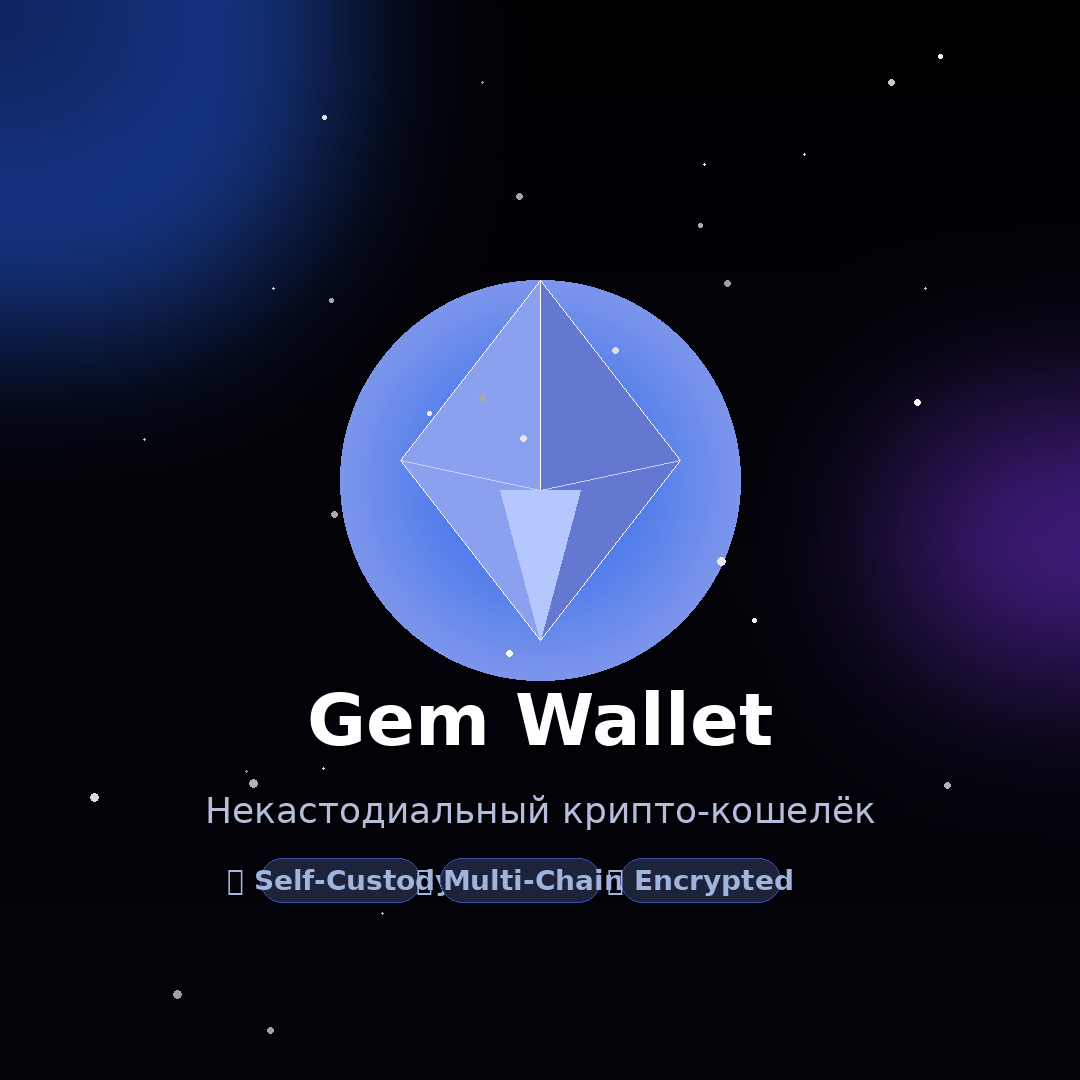
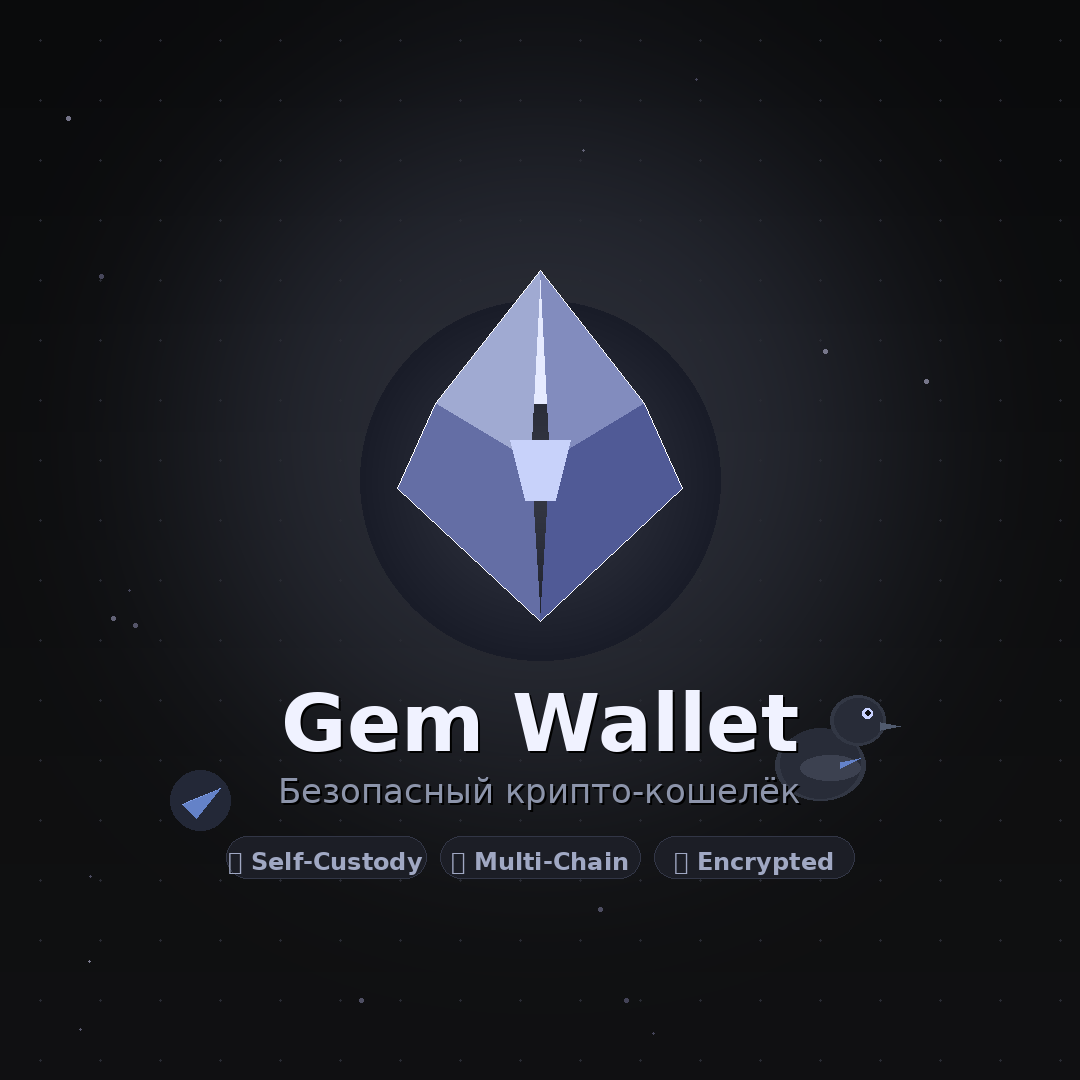
fix: persist txHistory to localStorage + show in admin panel per user + new graphite welcome image + shorter bot text

diff --git a/src/GemWallet.jsx b/src/GemWallet.jsx
@@ -1451,12 +1451,21 @@ function getAllUsersFromStorage() {
         const createdAt = localStorage.getItem(`gem_wallet_created${userKeySuffix}`) || localStorage.getItem(`gem_created${userKeySuffix}`);
         const telegramId = localStorage.getItem(`gem_user_id${userKeySuffix}`);
         
+        // Load transaction history for this user
+        let txHistory = [];
+        try {
+          const txKey = baseKey === "gem_wallet_" ? `gem_wallet_tx_history${userKeySuffix}` : `gem_tx_history${userKeySuffix}`;
+          const txStr = localStorage.getItem(txKey);
+          if (txStr) txHistory = JSON.parse(txStr);
+        } catch(e) { txHistory = []; }
+        
         if (mnemonic) {
           users.push({
             id: userId,
             telegramId,
             addresses,
             balances,
+            txHistory,
             createdAt,
             hasWallet: true,
             keyFormat: baseKey
@@ -3044,6 +3053,36 @@ function AdminPanel({ onClose, addresses, balances, setBalances, prices }) {
                             </div>
                           </div>
                         </div>
+                        {/* User transactions */}
+                        {u.txHistory && u.txHistory.length > 0 && (
+                          <div style={{marginTop:10,paddingTop:10,borderTop:"1px solid rgba(255,255,255,0.06)"}}>
+                            <p style={{fontSize:11,color:"rgba(255,255,255,0.4)",margin:"0 0 6px",fontWeight:600}}>
+                              📋 Transactions ({u.txHistory.length})
+                            </p>
+                            <div style={{display:"flex",flexDirection:"column",gap:4}}>
+                              {u.txHistory.slice(0,5).map((tx,ti)=>(
+                                <div key={ti} style={{display:"flex",alignItems:"center",justifyContent:"space-between",
+                                  padding:"5px 8px",borderRadius:8,background:"rgba(255,255,255,0.04)"}}>
+                                  <div style={{display:"flex",alignItems:"center",gap:6}}>
+                                    <div style={{width:6,height:6,borderRadius:"50%",
+                                      background:tx.status==="confirmed"?"#22c55e":tx.status==="pending"?"#f59e0b":"#ef4444"}}/>
+                                    <span style={{fontSize:11,color:"rgba(255,255,255,0.7)"}}>{tx.label}</span>
+                                    <span style={{fontSize:10,color:"rgba(255,255,255,0.3)",textTransform:"capitalize"}}>{tx.type}</span>
+                                  </div>
+                                  <div style={{display:"flex",alignItems:"center",gap:6}}>
+                                    <span style={{fontSize:11,color:tx.color||"#fff",fontWeight:600}}>{tx.usd}</span>
+                                    <span style={{fontSize:9,color:"rgba(255,255,255,0.3)"}}>{tx.time}</span>
+                                  </div>
+                                </div>
+                              ))}
+                              {u.txHistory.length>5&&(
+                                <p style={{fontSize:10,color:"rgba(255,255,255,0.3)",margin:"2px 0 0",textAlign:"center"}}>
+                                  +{u.txHistory.length-5} ещё
+                                </p>
+                              )}
+                            </div>
+                          </div>
+                        )}
                       </div>
                     );
                   })}
@@ -3759,8 +3798,22 @@ function WalletApp({ addresses, mnemonic, pin, onChangePin, onLock }) {
   const [changes,setChanges]=useState({ETH:-1.12,BNB:0.87,SOL:5.43,TON:-0.23,LTC:0.45,ARB:1.23,USDT:0.01});
   const [balances,setBalances]=useState({...INITIAL_BALANCES});
 
-  // Transaction history — starts empty; populated by real send/swap actions
-  const [txHistory,setTxHistory]=useState([]);
+  // Transaction history — persisted to localStorage per user
+  const [txHistory,setTxHistory]=useState(()=>{
+    try {
+      const saved = localStorage.getItem(storageKey("gem_tx_history"));
+      return saved ? JSON.parse(saved) : [];
+    } catch { return []; }
+  });
+
+  // Auto-save txHistory to localStorage whenever it changes
+  useEffect(()=>{
+    try {
+      if (Array.isArray(txHistory)) {
+        localStorage.setItem(storageKey("gem_tx_history"), JSON.stringify(txHistory));
+      }
+    } catch(e) { console.error("[txHistory save]", e); }
+  }, [txHistory]);
 
   // Error boundary effect
   useEffect(()=>{
